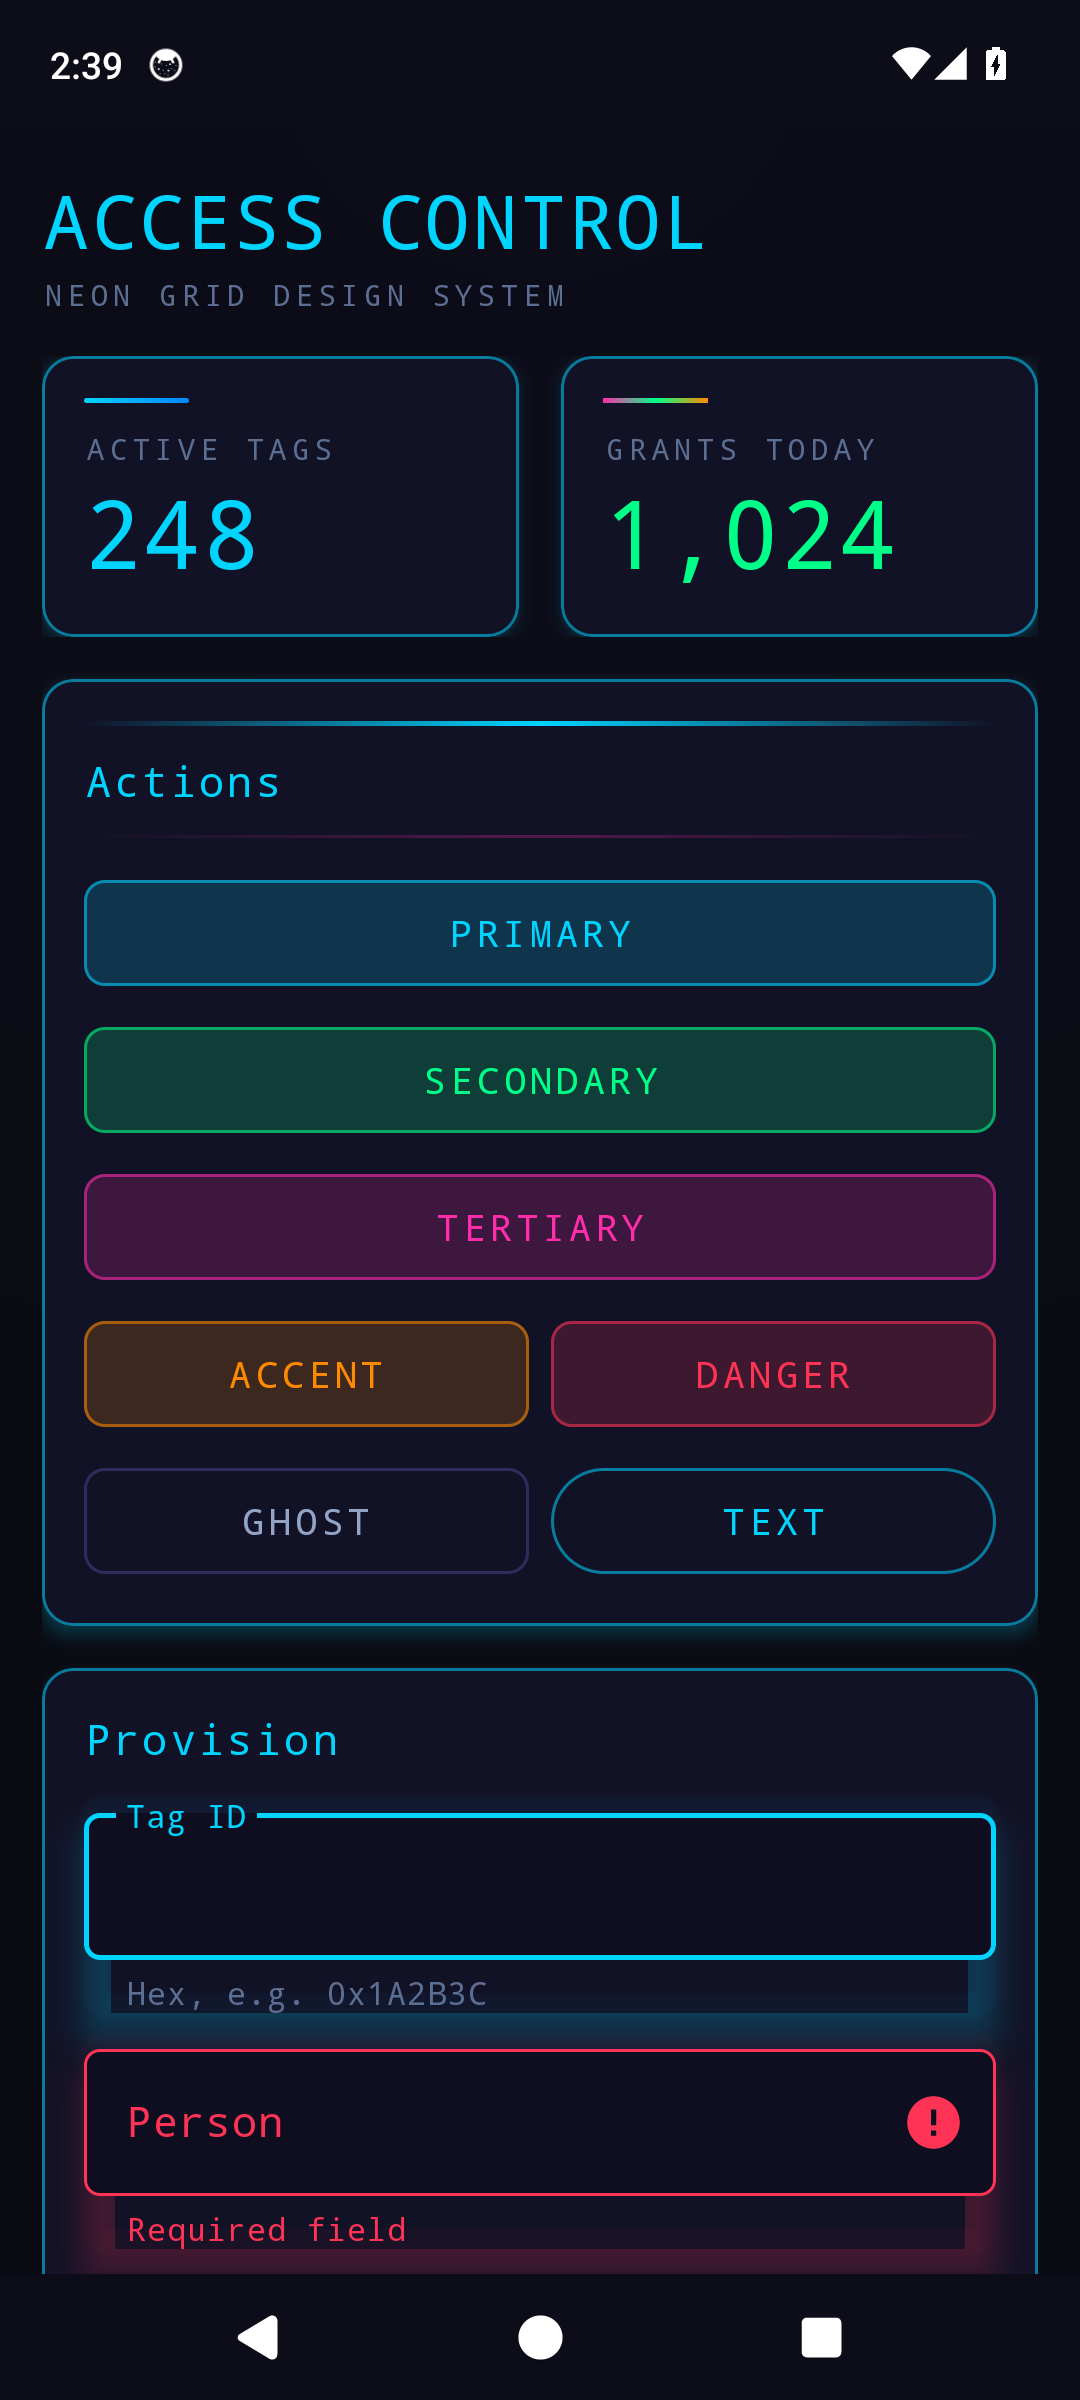
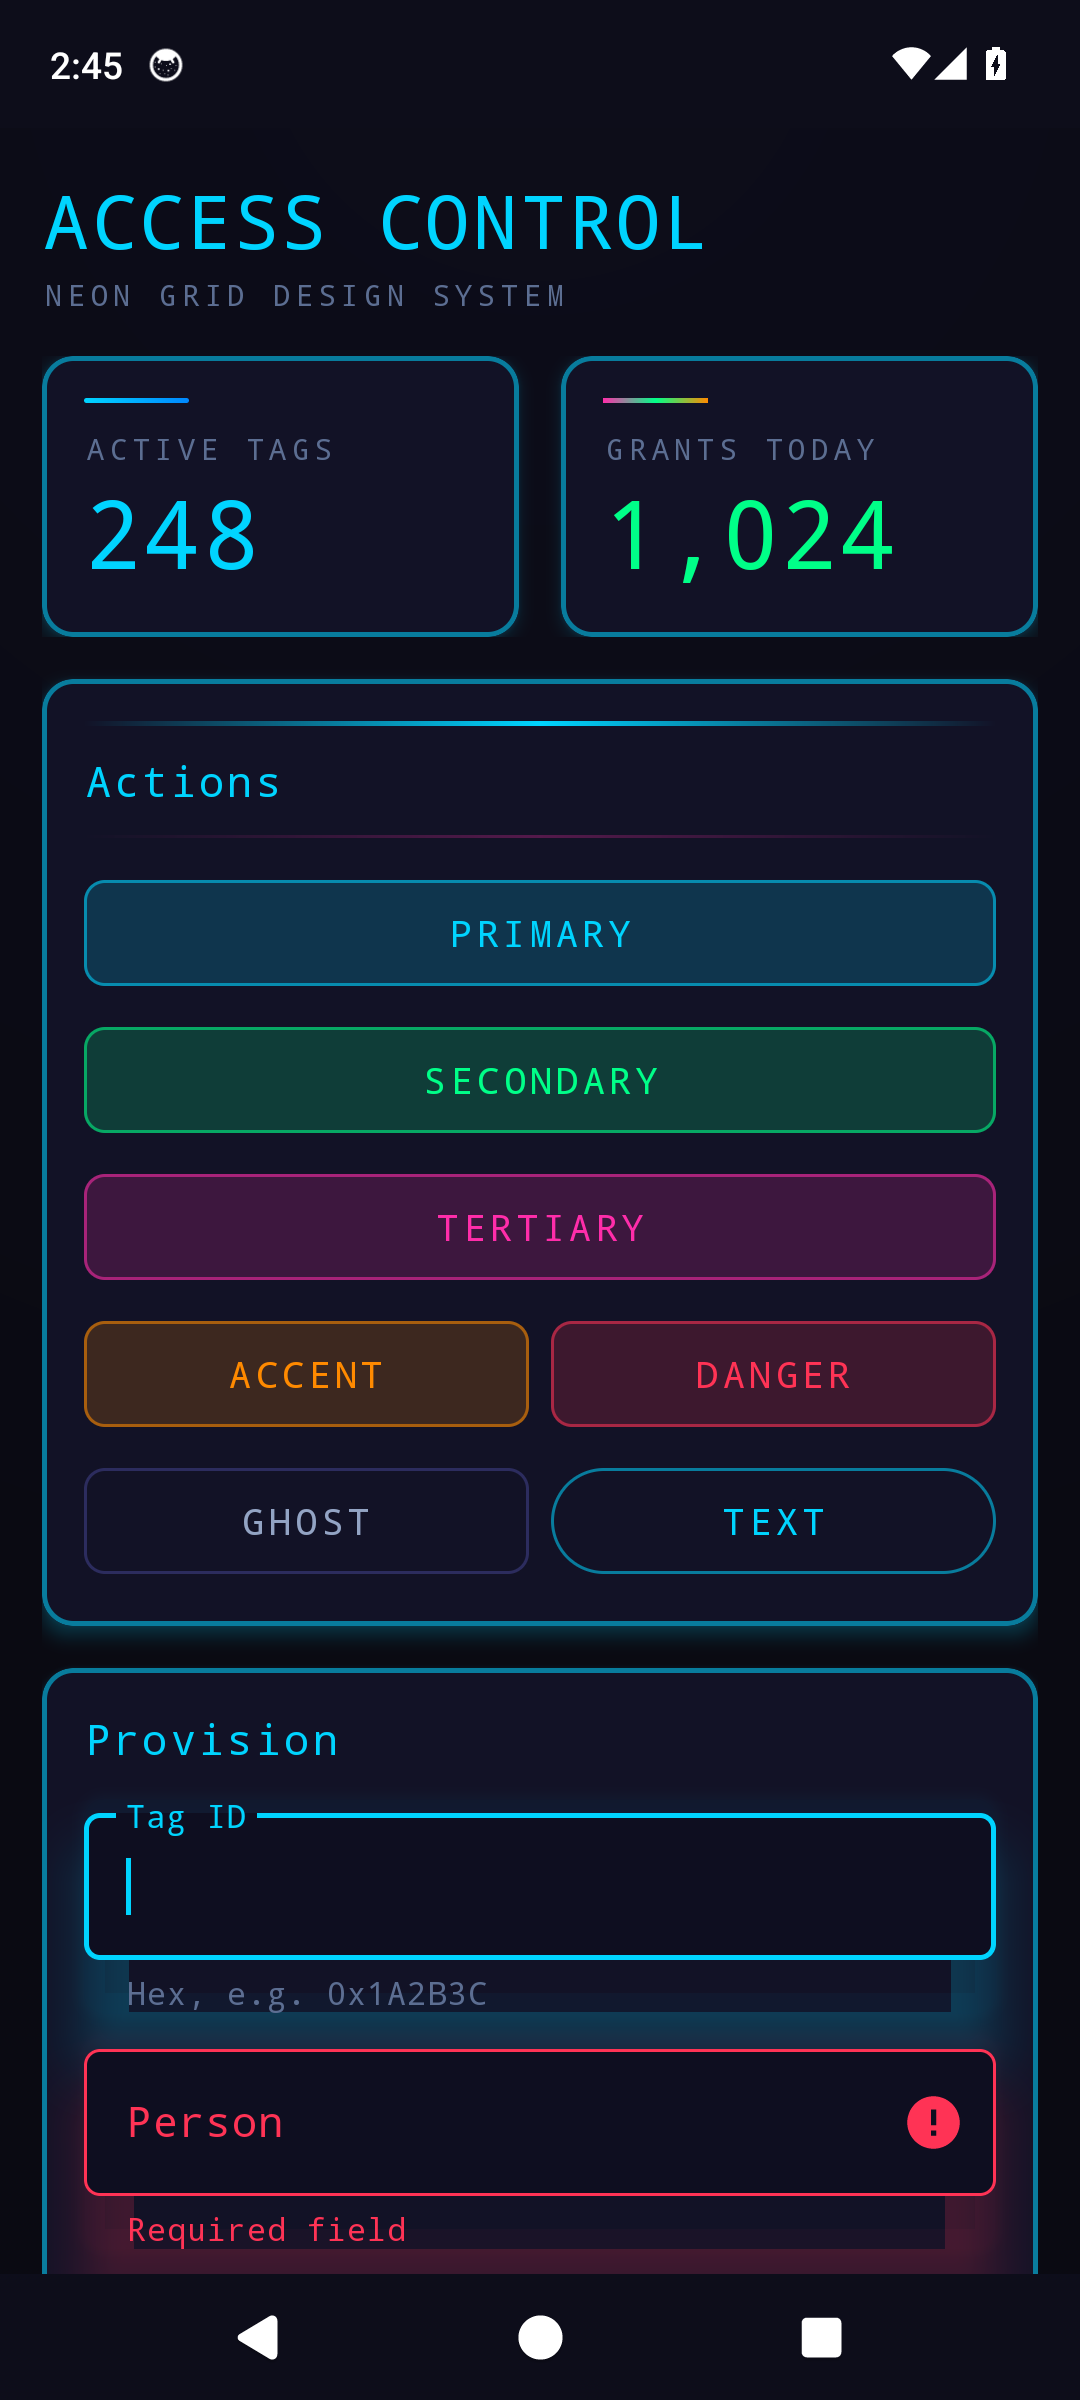
Stronger focus/error field halos + thicker container borders
- Bump the field glow elevation (8dp -> 13dp) so the focused field's cyan halo and
  the required-field red halo read as clear neon halos, not faint shadows.
- Thicken container (card / panel) borders from 1dp to 2dp.

diff --git a/android/sample/src/main/java/com/nickbether/neongrid/sample/MainActivity.java b/android/sample/src/main/java/com/nickbether/neongrid/sample/MainActivity.java
@@ -51,7 +51,7 @@ public class MainActivity extends AppCompatActivity {
                 outline.setRoundRect(0, 0, view.getWidth(), view.getHeight(), corner);
             }
         });
-        v.setElevation(8 * d);
+        v.setElevation(13 * d);
         if (Build.VERSION.SDK_INT >= Build.VERSION_CODES.P) {
             v.setOutlineSpotShadowColor(color);
             v.setOutlineAmbientShadowColor(color);